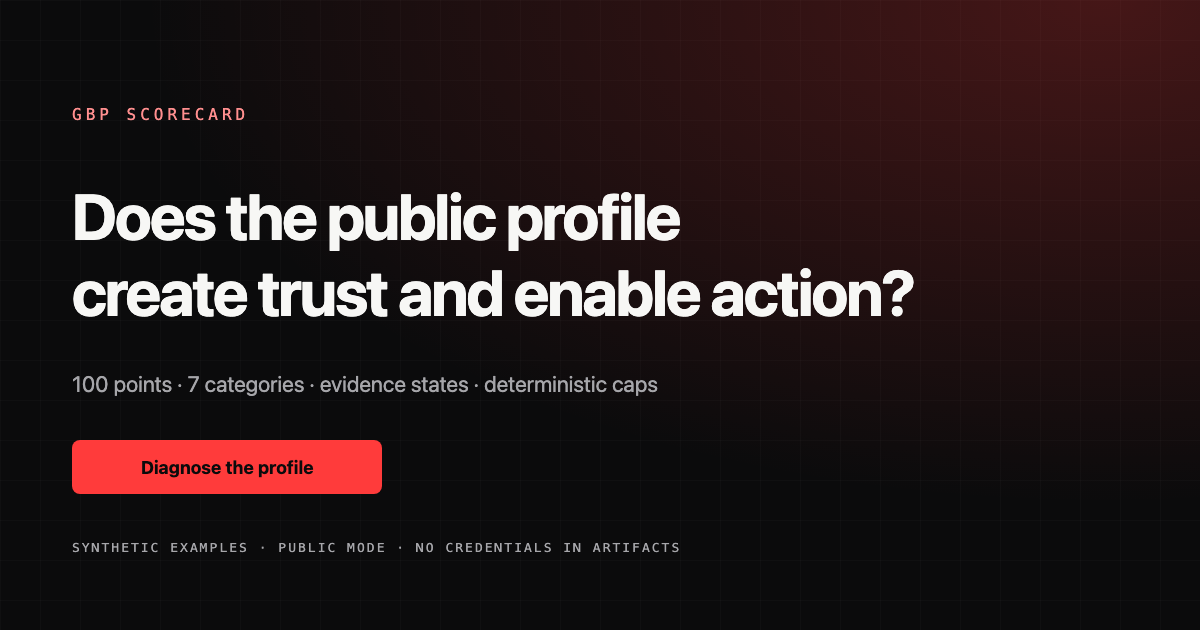
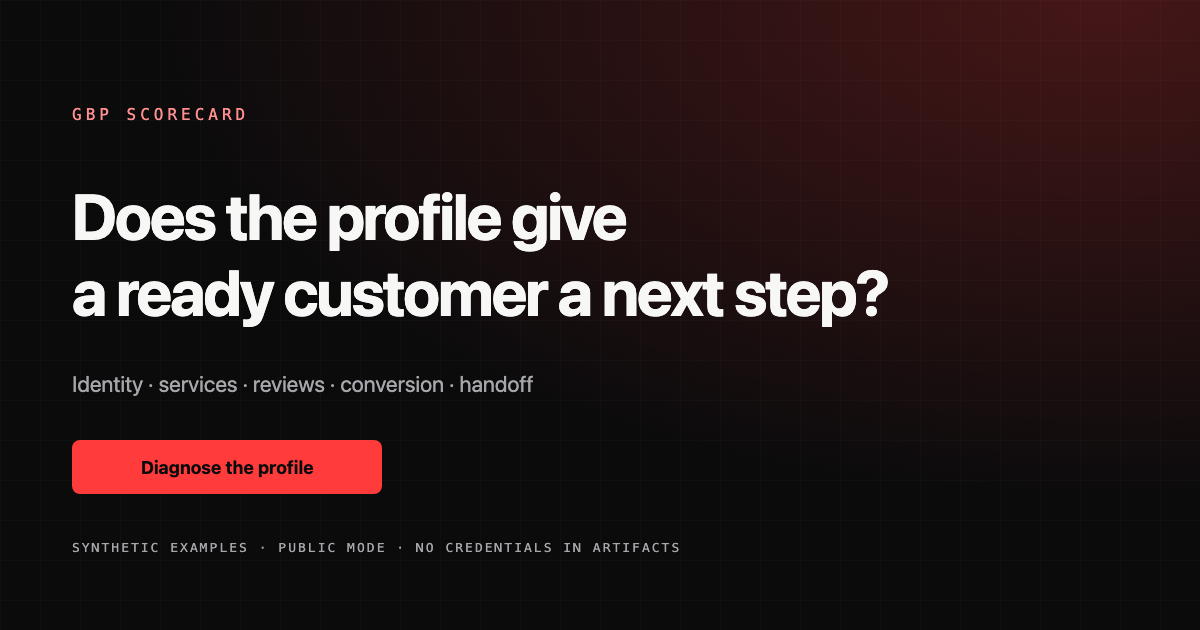
Unify scorecard family visual system

Changed region(s): [[0.0617, 0.3016, 0.7708, 0.5127], [0.0617, 0.573, 0.555, 0.6333]]

diff --git a/docs/assets/extra.css b/docs/assets/extra.css
@@ -1,3 +1,5 @@
+@import url("https://fonts.googleapis.com/css2?family=Space+Grotesk:wght@500;600;700&display=swap");
+
 /* ---------------------------------------------------------------- tokens */
 
 :root {
@@ -297,6 +299,28 @@
 .md-typeset .admonition,
 .md-typeset details {
   border-radius: 8px;
+  border-left-width: 3px;
+}
+
+.md-typeset .admonition.note,
+.md-typeset details.note {
+  border-color: #ff3b3b;
+}
+
+.md-typeset .admonition.note > .admonition-title,
+.md-typeset details.note > summary {
+  background-color: rgba(255, 59, 59, 0.1);
+  border-color: #ff3b3b;
+}
+
+.md-typeset blockquote {
+  border-left: 3px solid #ff3b3b;
+  color: var(--md-default-fg-color--light);
+}
+
+.md-typeset .mermaid {
+  margin: 1.2rem 0;
+  text-align: center;
 }
 
 .md-typeset .admonition-title,

diff --git a/docs/github-settings.md b/docs/github-settings.md
@@ -21,7 +21,7 @@ Upload **`docs/assets/social-preview.png`** as the repository social preview.
 - Opaque PNG
 - No client data; synthetic framing only
 
-The source artwork is `docs/assets/social-preview.svg`. The PNG is committed because GitHub expects a raster image, and the text rasterization is intentionally done outside CI so the local font rendering can be reviewed.
+The canonical social preview is `docs/assets/social-preview.png` (1200×630, under 1 MB). It is generated from the shared scorecard-family template and committed because GitHub expects a raster image. Local font rendering is reviewed before commit.
 
 ## Security
 
